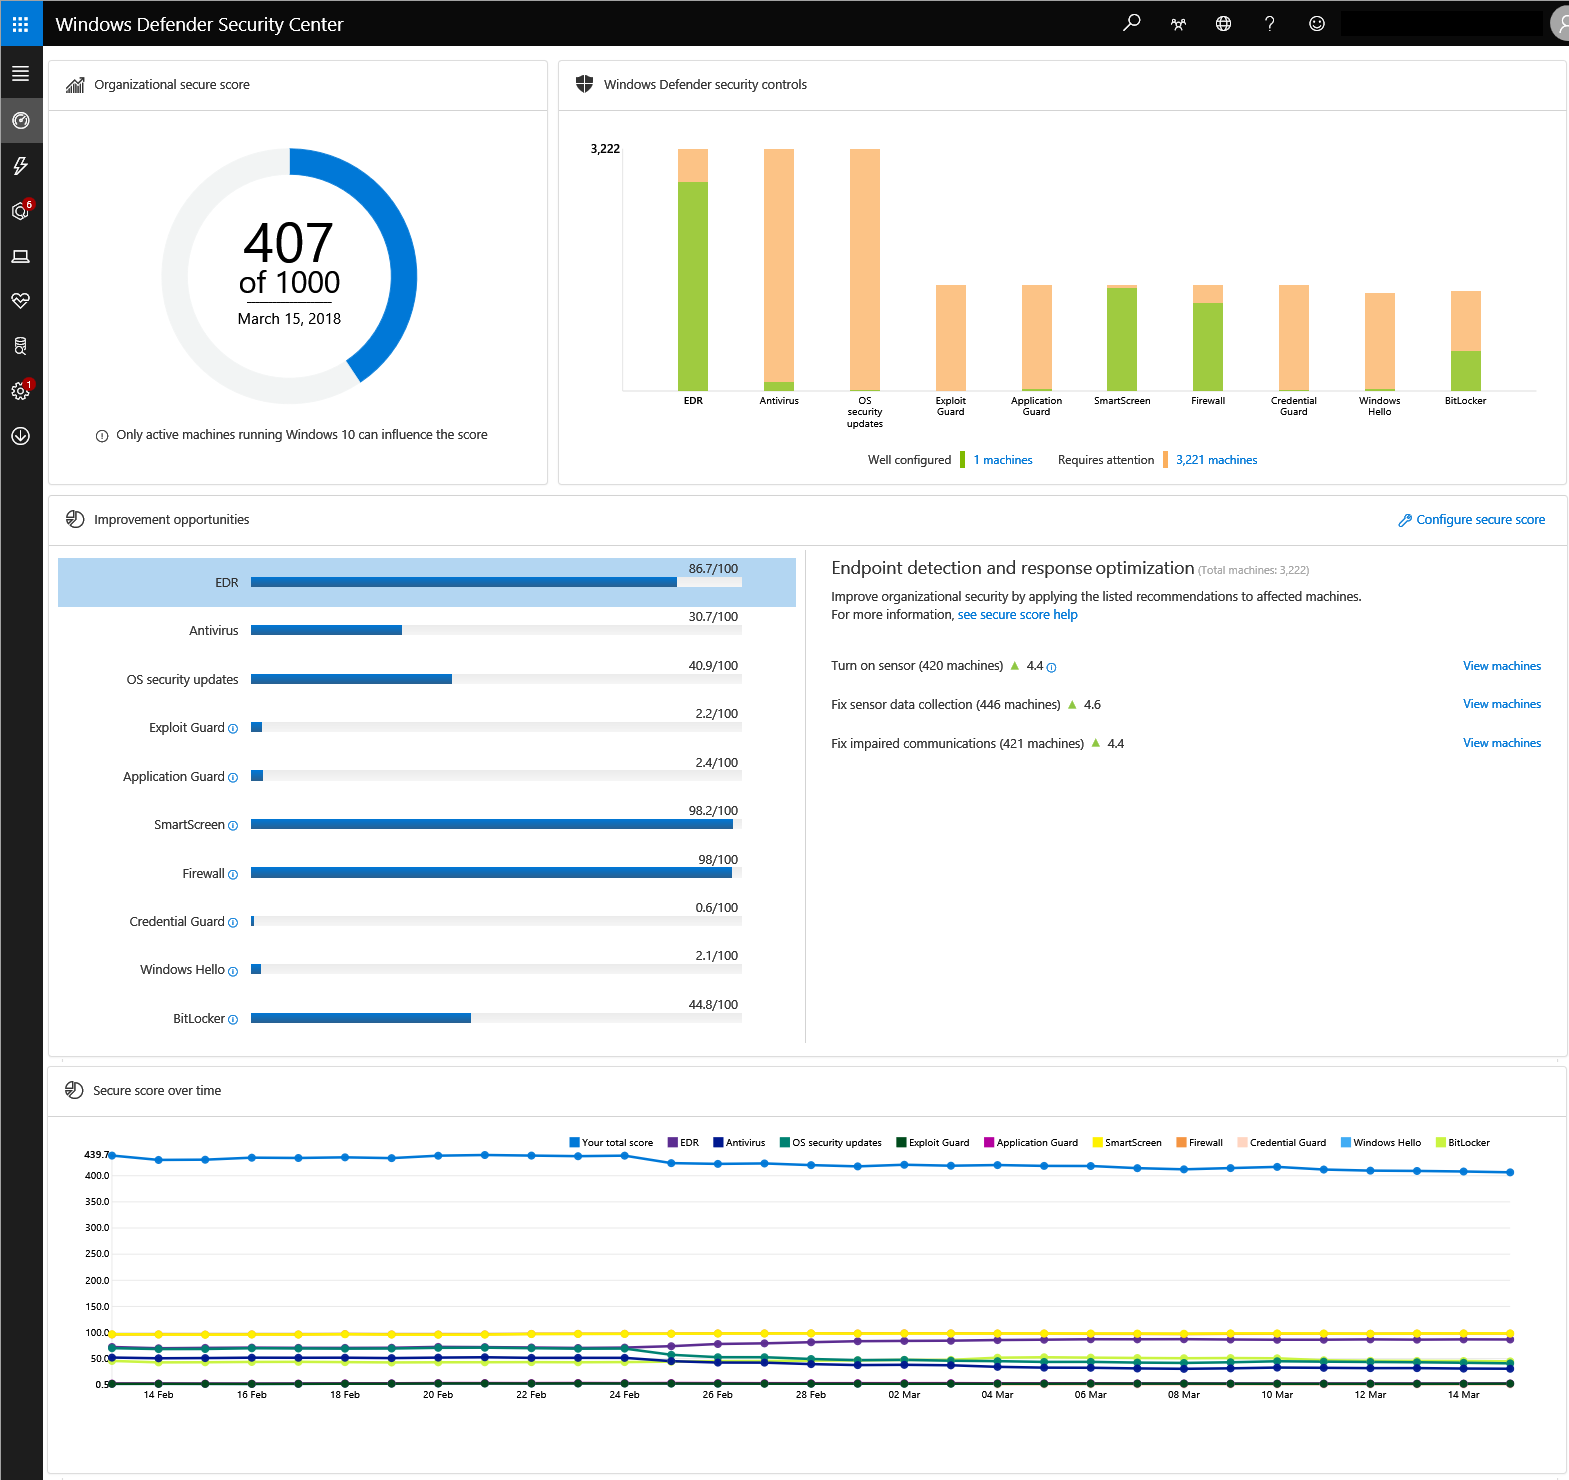
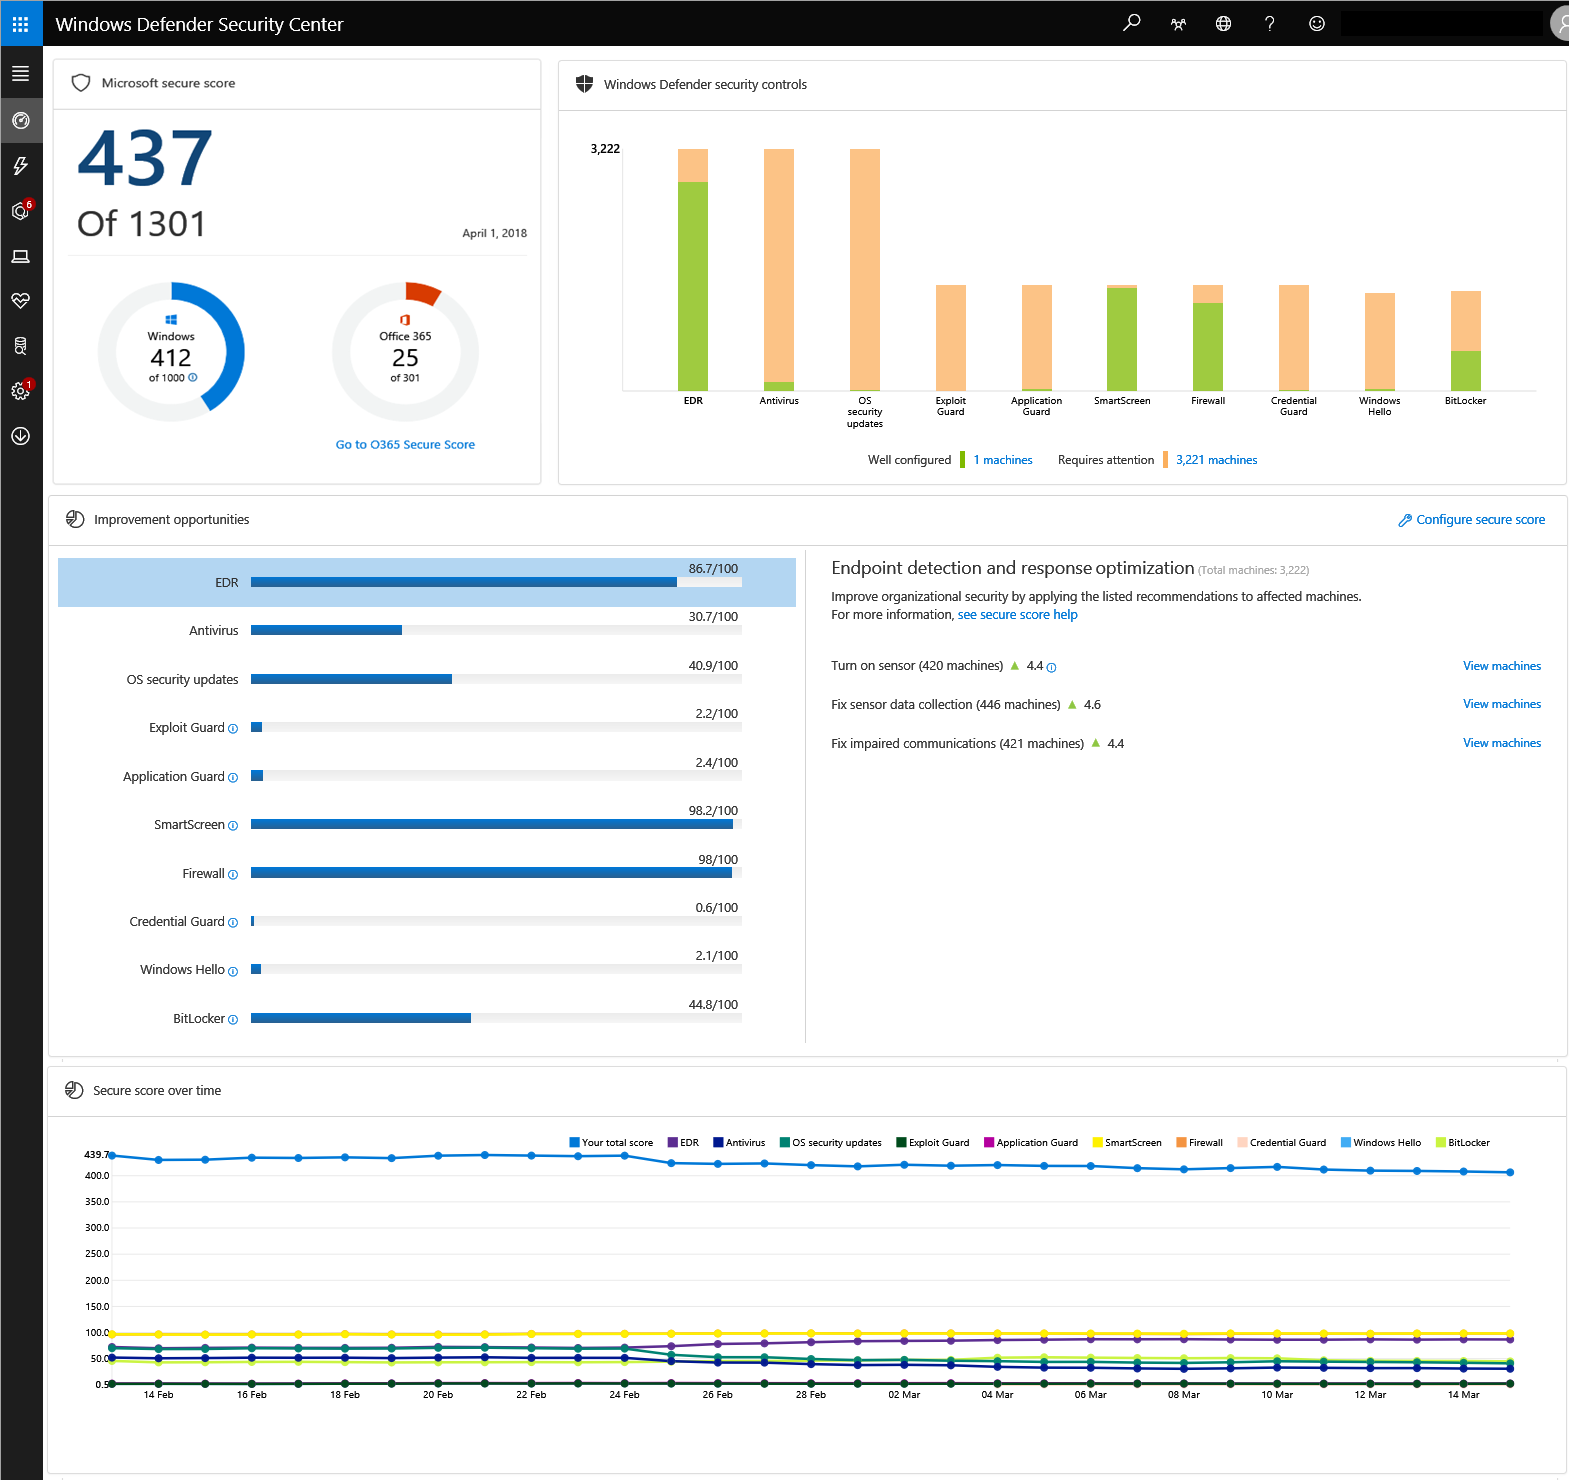
update ms secure score

Changed region(s): [[0.0937, 0.0932, 0.3123, 0.3108], [0.0312, 0.0311, 0.1562, 0.1554]]

diff --git a/windows/security/threat-protection/windows-defender-atp/security-analytics-dashboard-windows-defender-advanced-threat-protection.md b/windows/security/threat-protection/windows-defender-atp/security-analytics-dashboard-windows-defender-advanced-threat-protection.md
@@ -41,10 +41,10 @@ The **Secure score dashboard** displays a snapshot of:
 
 ![Secure score dashboard](images/atp-dashboard-security-analytics-full.png)
 
-## Organizational security score
+## Microsoft secure score
 The organization security score is reflective of the average score of all the Windows Defender security controls that are configured according to the recommended baseline. You can improve this score by taking the steps in configuring each of the security controls in the optimal settings.
 
-![Organizational security score](images/atp-org-sec-score.png)
+![Image of Microsoft secure score tile](images/atp-ms-secure-score.png)
 
 Each Windows Defender security control from the **Windows Defender security controls** tile contributes 100 points to the organizational security score. 
 
